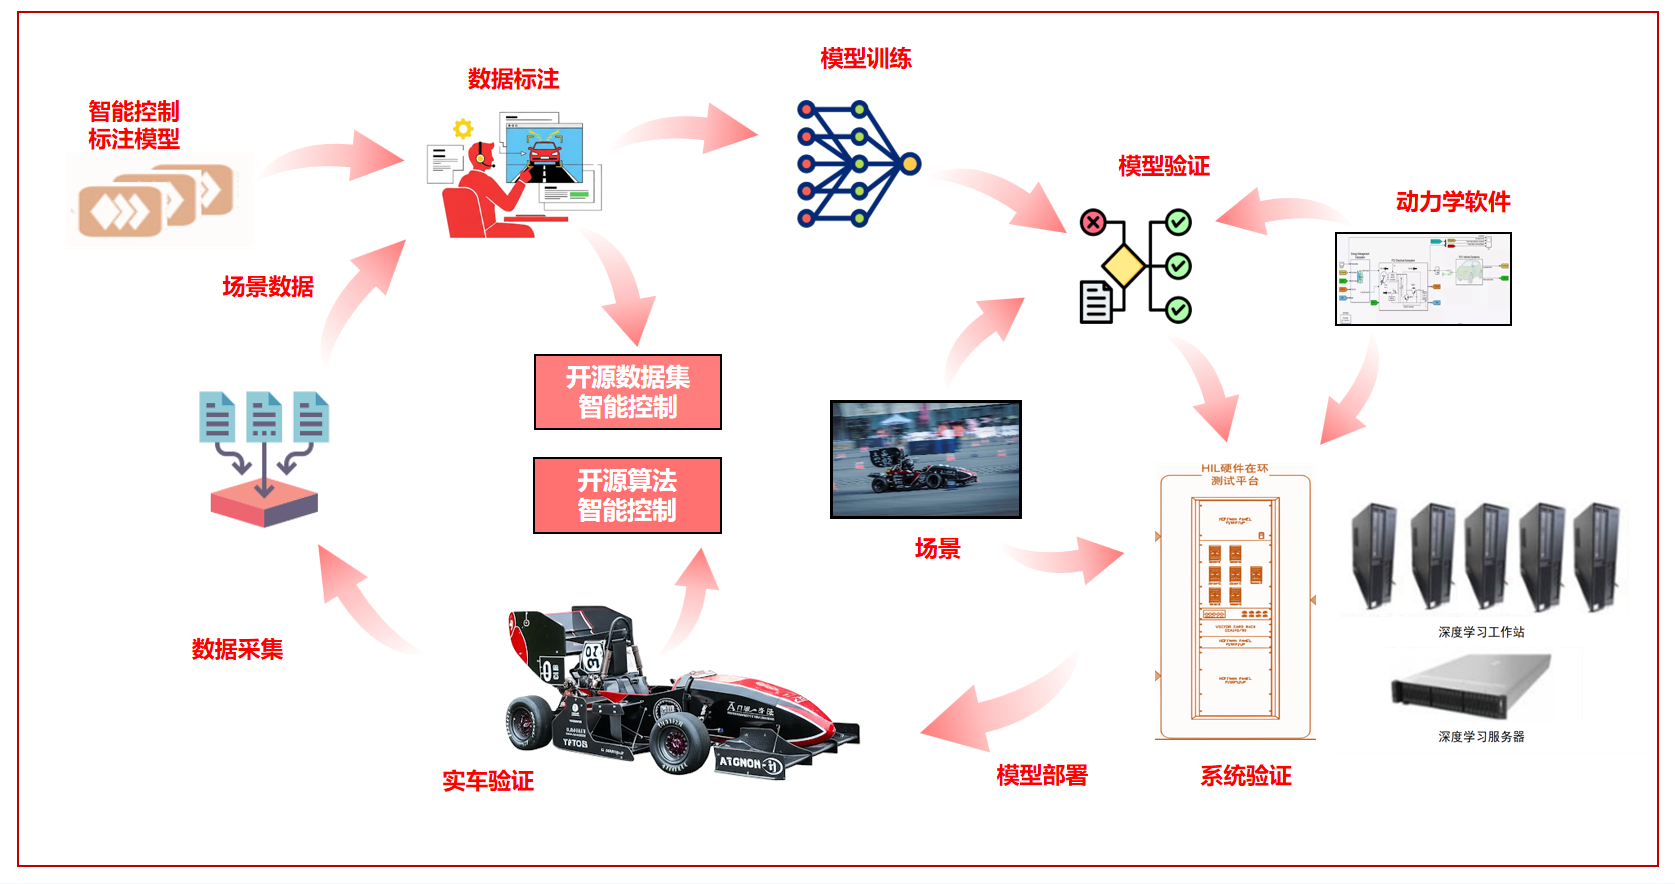
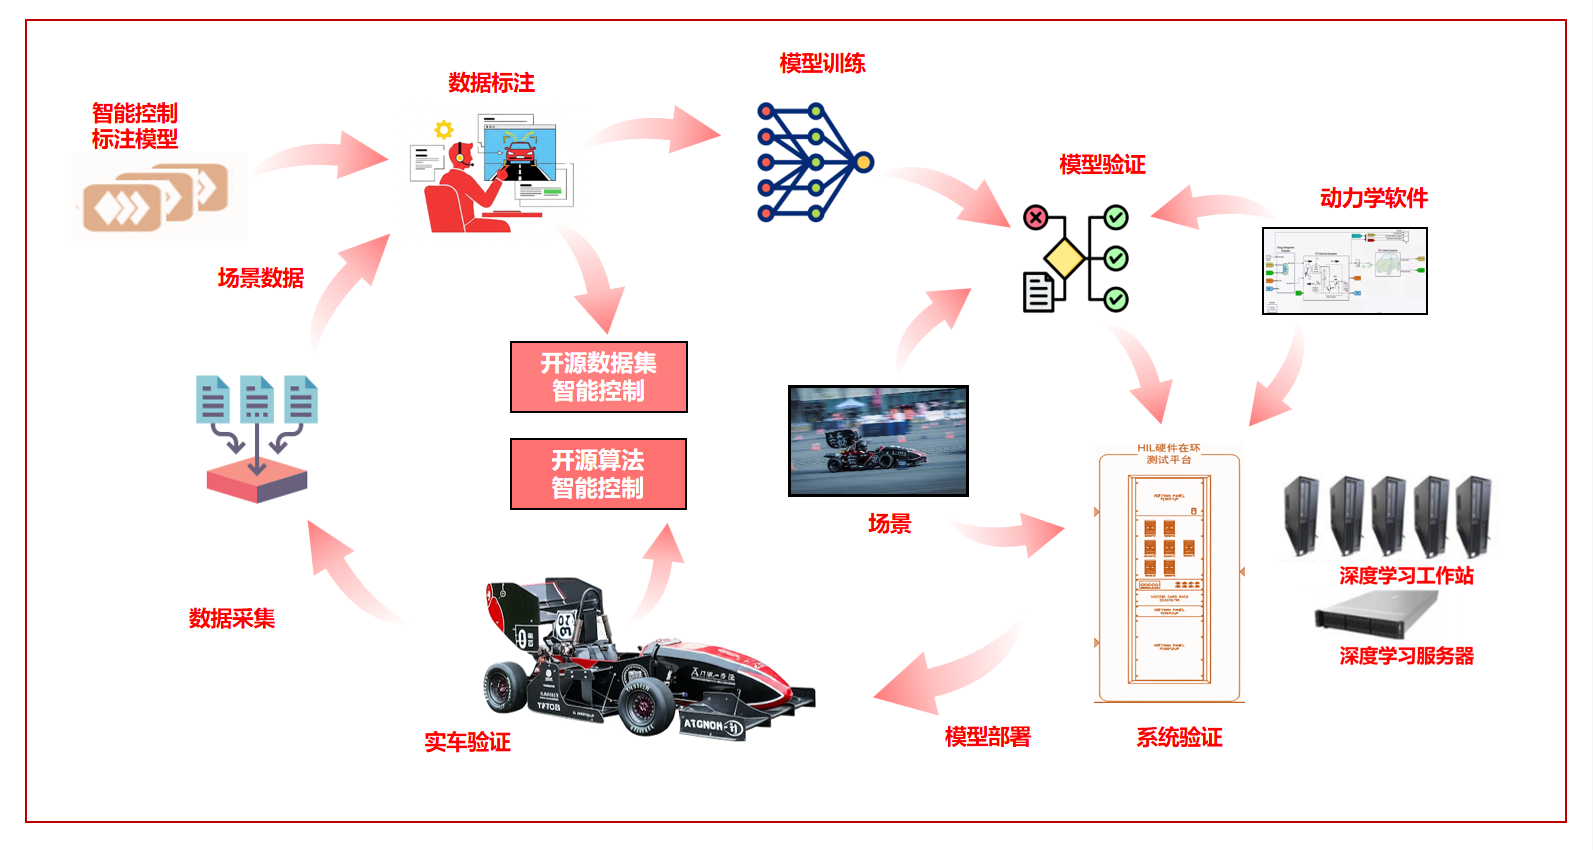
更新署名与平台图片

diff --git a/achievements.html b/achievements.html
@@ -80,8 +80,8 @@
               <li data-zh="Shuiwen Shen. <em>Practical Control of Electric Machines for EV/HEVs</em> (Monograph). Springer, 2023." data-en="Shuiwen Shen. <em>Practical Control of Electric Machines for EV/HEVs</em> (Monograph). Springer, 2023.">Shuiwen Shen. <em>Practical Control of Electric Machines for EV/HEVs</em> (Monograph). Springer, 2023.</li>
               <li data-zh="Yuxuan Chang, Chenlei Hou, Zhiqun Yuan, Weiqiang Chen, Zhenyu Qin, Xuewu Ji, Shuiwen Shen. Manifold-based adaptive cruise control for autonomous vehicles [J]. IEEE Transactions on Intelligent Transportation Systems, 2026." data-en="Yuxuan Chang, Chenlei Hou, Zhiqun Yuan, Weiqiang Chen, Zhenyu Qin, Xuewu Ji, Shuiwen Shen. Manifold-based adaptive cruise control for autonomous vehicles [J]. IEEE Transactions on Intelligent Transportation Systems, 2026.">Yuxuan Chang, Chenlei Hou, Zhiqun Yuan, Weiqiang Chen, Zhenyu Qin, Xuewu Ji, Shuiwen Shen. Manifold-based adaptive cruise control for autonomous vehicles [J]. IEEE Transactions on Intelligent Transportation Systems, 2026.</li>
               <li data-zh="Zhenyu Qin, Jiaqi Wang, Panxue Liu, Shuiwen Shen. Real Time Tire Stiffness Estimation Using Enhanced GDM and RLS for Autonomous Vehicles [J]. Nature Scientific Reports, 2025." data-en="Zhenyu Qin, Jiaqi Wang, Panxue Liu, Shuiwen Shen. Real Time Tire Stiffness Estimation Using Enhanced GDM and RLS for Autonomous Vehicles [J]. Nature Scientific Reports, 2025.">Zhenyu Qin, Jiaqi Wang, Panxue Liu, Shuiwen Shen. Real Time Tire Stiffness Estimation Using Enhanced GDM and RLS for Autonomous Vehicles [J]. Nature Scientific Reports, 2025.</li>
-              <li data-zh="Luigi d’Apolito, Tianwei Gu, Hanchi Hong, Wenbo Zhang, Shuiwen Shen. State of charge evaluation of lithium-ion batteries under wide temperature range using multi-feature ultrasonic indicators [J]. IIonics, 2025, Vol.31, p4239-4260." data-en="Luigi d’Apolito, Tianwei Gu, Hanchi Hong, Wenbo Zhang, Shuiwen Shen. State of charge evaluation of lithium-ion batteries under wide temperature range using multi-feature ultrasonic indicators [J]. IIonics, 2025, Vol.31, p4239-4260.">Luigi d’Apolito, Tianwei Gu, Hanchi Hong, Wenbo Zhang, Shuiwen Shen. State of charge evaluation of lithium-ion batteries under wide temperature range using multi-feature ultrasonic indicators [J]. IIonics, 2025, Vol.31, p4239-4260.</li>
-              <li data-zh="Luigi d’Apolito, Long Sun, Hanchi Hong, Xiang Song, Shuiwen Shen. Nanofluid-based counterflow immersion cooling for lithium-ion battery during fast charging [J]. Journal of Thermal Science and Engineering Applications, 2025, 17(8): 081001." data-en="Luigi d’Apolito, Long Sun, Hanchi Hong, Xiang Song, Shuiwen Shen. Nanofluid-based counterflow immersion cooling for lithium-ion battery during fast charging [J]. Journal of Thermal Science and Engineering Applications, 2025, 17(8): 081001.">Luigi d’Apolito, Long Sun, Hanchi Hong, Xiang Song, Shuiwen Shen. Nanofluid-based counterflow immersion cooling for lithium-ion battery during fast charging [J]. Journal of Thermal Science and Engineering Applications, 2025, 17(8): 081001.</li>
+              <li data-zh="Luigi d'Apolito, Tianwei Gu, Hanchi Hong, Wenbo Zhang, Shuiwen Shen. State of charge evaluation of lithium-ion batteries under wide temperature range using multi-feature ultrasonic indicators [J]. IIonics, 2025, Vol.31, p4239-4260." data-en="Luigi d'Apolito, Tianwei Gu, Hanchi Hong, Wenbo Zhang, Shuiwen Shen. State of charge evaluation of lithium-ion batteries under wide temperature range using multi-feature ultrasonic indicators [J]. IIonics, 2025, Vol.31, p4239-4260.">Luigi d'Apolito, Tianwei Gu, Hanchi Hong, Wenbo Zhang, Shuiwen Shen. State of charge evaluation of lithium-ion batteries under wide temperature range using multi-feature ultrasonic indicators [J]. IIonics, 2025, Vol.31, p4239-4260.</li>
+              <li data-zh="Luigi d'Apolito, Long Sun, Hanchi Hong, Xiang Song, Shuiwen Shen. Nanofluid-based counterflow immersion cooling for lithium-ion battery during fast charging [J]. Journal of Thermal Science and Engineering Applications, 2025, 17(8): 081001." data-en="Luigi d'Apolito, Long Sun, Hanchi Hong, Xiang Song, Shuiwen Shen. Nanofluid-based counterflow immersion cooling for lithium-ion battery during fast charging [J]. Journal of Thermal Science and Engineering Applications, 2025, 17(8): 081001.">Luigi d'Apolito, Long Sun, Hanchi Hong, Xiang Song, Shuiwen Shen. Nanofluid-based counterflow immersion cooling for lithium-ion battery during fast charging [J]. Journal of Thermal Science and Engineering Applications, 2025, 17(8): 081001.</li>
               <li data-zh="Ye Wang, Hanchi Hong, Yan Xiao, Honglei Zhang, Rui Wang, Zhenyu Qin, Shuiwen Shen. On Slope Attitude Angle Estimation for Mass-Production Range-Extended Electric Vehicles Based on the Extended Kalman Filter Approach [J]. World Electric Vehicle Journal, 2025, 16(4): 210." data-en="Ye Wang, Hanchi Hong, Yan Xiao, Honglei Zhang, Rui Wang, Zhenyu Qin, Shuiwen Shen. On Slope Attitude Angle Estimation for Mass-Production Range-Extended Electric Vehicles Based on the Extended Kalman Filter Approach [J]. World Electric Vehicle Journal, 2025, 16(4): 210.">Ye Wang, Hanchi Hong, Yan Xiao, Honglei Zhang, Rui Wang, Zhenyu Qin, Shuiwen Shen. On Slope Attitude Angle Estimation for Mass-Production Range-Extended Electric Vehicles Based on the Extended Kalman Filter Approach [J]. World Electric Vehicle Journal, 2025, 16(4): 210.</li>
                 </ol>
               </section>

diff --git a/research.html b/research.html
@@ -70,7 +70,7 @@
               <h3 data-zh="3. 智能机器人与机器狗系统研发及应用" data-en="3. Intelligent Robot and Quadruped Systems">3. 智能机器人与机器狗系统研发及应用</h3>
               <p data-zh="聚焦多场景自主导航、柔性操作控制以及复杂环境下的稳定运动能力，围绕工业环境和非结构化环境中的定位、建图、导航、自主作业与复杂任务执行等关键能力开展研究。<br>重点突破视觉伺服、力觉控制、动态避障、多任务协同、仿生敏捷控制、多模态环境感知和自主路径规划等核心技术，推动机器人与机器狗系统在复杂场景中的智能化落地应用。<br>进一步提升其在高精度制造、设备巡检、仓储物流、应急救援、灾害勘测及公共服务等领域的适应性、稳定性和工程化应用价值。" data-en="This direction focuses on multi-scenario autonomous navigation, flexible manipulation control, and stable locomotion in complex environments, studying key capabilities such as localization, mapping, navigation, autonomous operation, and complex task execution in industrial and unstructured environments.<br>It targets core technologies including visual servoing, force control, dynamic obstacle avoidance, multi-task coordination, biomimetic agile control, multimodal perception, and autonomous path planning, promoting intelligent deployment of robot and quadruped systems in complex scenarios.<br>It further improves adaptability, stability, and engineering value in precision manufacturing, equipment inspection, warehousing and logistics, emergency rescue, disaster surveying, and public services.">聚焦多场景自主导航、柔性操作控制以及复杂环境下的稳定运动能力，围绕工业环境和非结构化环境中的定位、建图、导航、自主作业与复杂任务执行等关键能力开展研究。<br>重点突破视觉伺服、力觉控制、动态避障、多任务协同、仿生敏捷控制、多模态环境感知和自主路径规划等核心技术，推动机器人与机器狗系统在复杂场景中的智能化落地应用。<br>进一步提升其在高精度制造、设备巡检、仓储物流、应急救援、灾害勘测及公共服务等领域的适应性、稳定性和工程化应用价值。</p>
               <figure class="research-figure research-figure-inline">
-                <img class="research-figure-image research-figure-image-inline is-robot-inline" src="assets/research-robot-inline.jpeg" alt="智能机器人系统研发与应用示意图">
+                <img class="research-figure-image research-figure-image-inline is-robot-inline" src="assets/research-robot-inline.jpeg" alt="智能机器人与机器狗系统研发及应用示意图">
               </figure>
             </section>
 

diff --git a/members.html b/members.html
@@ -60,7 +60,7 @@
             </div>
             <div class="member-grid">
               <article class="member-card"><img class="member-avatar" src="assets/ppt-media/image7.png" alt="洪汉池照片"><h4 class="member-name" data-zh="洪汉池" data-en="Hanchi Hong">洪汉池</h4><p class="member-role" data-zh="教授" data-en="Professor">教授</p></article>
-              <article class="member-card"><img class="member-avatar" src="assets/ppt-media/image3.png" alt="Luigi d’Apolito 照片"><h4 class="member-name">Luigi d’Apolito</h4><p class="member-role" data-zh="副教授" data-en="Associate Professor">副教授</p></article>
+              <article class="member-card"><img class="member-avatar" src="assets/ppt-media/image3.png" alt="Luigi d'Apolito 照片"><h4 class="member-name">Luigi d'Apolito</h4><p class="member-role" data-zh="副教授" data-en="Associate Professor">副教授</p></article>
               <article class="member-card"><img class="member-avatar" src="assets/ppt-media/image8.png" alt="刘盼学照片"><h4 class="member-name" data-zh="刘盼学" data-en="Panxue Liu">刘盼学</h4><p class="member-role" data-zh="同济大学博士" data-en="Ph.D., Tongji University">同济大学博士</p></article>
               <article class="member-card"><img class="member-avatar" src="assets/ppt-media/image9.png" alt="林志诚照片"><h4 class="member-name" data-zh="林志诚" data-en="Zhicheng Lin">林志诚</h4><p class="member-role" data-zh="东南大学博士" data-en="Ph.D., Southeast University">东南大学博士</p></article>
               <article class="member-card"><img class="member-avatar" src="assets/ppt-media/image10.png" alt="王嘉淇照片"><h4 class="member-name" data-zh="王嘉淇" data-en="Jiaqi Wang">王嘉淇</h4><p class="member-role" data-zh="捷豹路虎中国" data-en="Jaguar Land Rover China">捷豹路虎中国</p></article>

diff --git a/shen-shuiwen.html b/shen-shuiwen.html
@@ -138,8 +138,8 @@
             <li>A.F.A. Serrarens, S. Shen, F.E. Veldpaus, Control of flywheel assisted driveline with a CVT, ASME J. of Dynamic Systems, Measurement, and Control, Vol.125, No.3, pp.455-461, 2003.</li>
             <li>S. Shen, A.F.A. Serrarens, M. Steinbuch, F.E. Veldpaus, Coordinated control of a mechanical hybrid driveline with a continuously variable transmission, JSAE Review vol.22, pp.453-461, 2001.</li>
             <li>Zhiqun Yuan, Yuxuan Chang, Yong Han, Shuiwen Shen. Research on forward collision warning algorithm for intelligent vehicle under low visibility conditions[J]. Journal of the Brazilian Society of Mechanical Sciences and Engineering, major version.</li>
-            <li>Luigi d’Apolito, Tianwei Gu, Hanchi Hong, Wenbo Zhang &amp; Shuiwen Shen. State of charge evaluation of lithium-ion batteries under wide temperature range using multi-feature ultrasonic indicators. Ionics 31, 4239–4260 (2025).</li>
-            <li>Hanchi Hong, Xiang Song, Luigi d’Apolito, Long Sun, Shuiwen Shen. Thermal analysis of nanofluid submerged battery tab under fast charging conditions.</li>
+            <li>Luigi d'Apolito, Tianwei Gu, Hanchi Hong, Wenbo Zhang &amp; Shuiwen Shen. State of charge evaluation of lithium-ion batteries under wide temperature range using multi-feature ultrasonic indicators. Ionics 31, 4239–4260 (2025).</li>
+            <li>Hanchi Hong, Xiang Song, Luigi d'Apolito, Long Sun, Shuiwen Shen. Thermal analysis of nanofluid submerged battery tab under fast charging conditions.</li>
           </ol>
         </div>
       </section>
